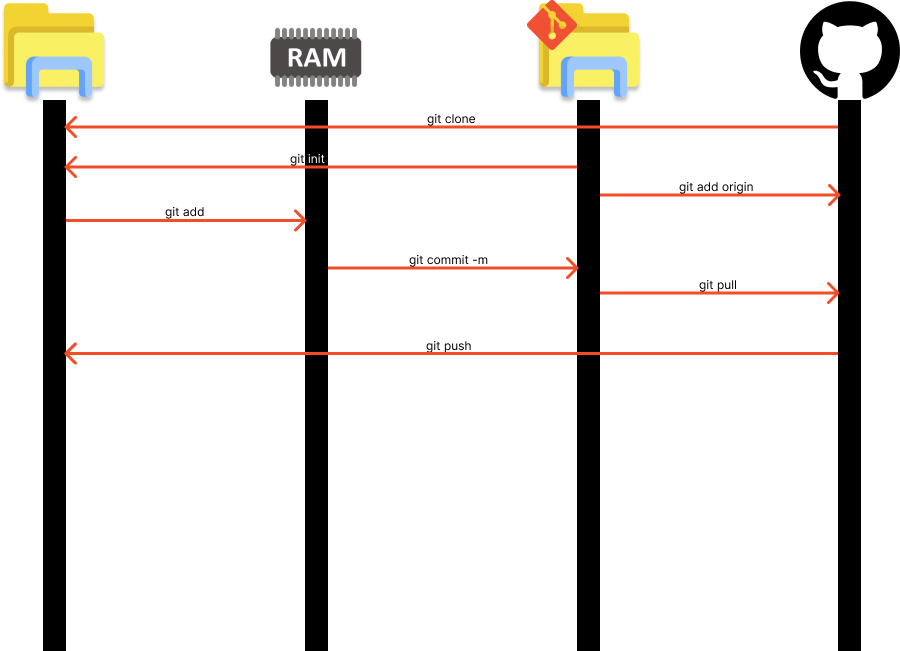
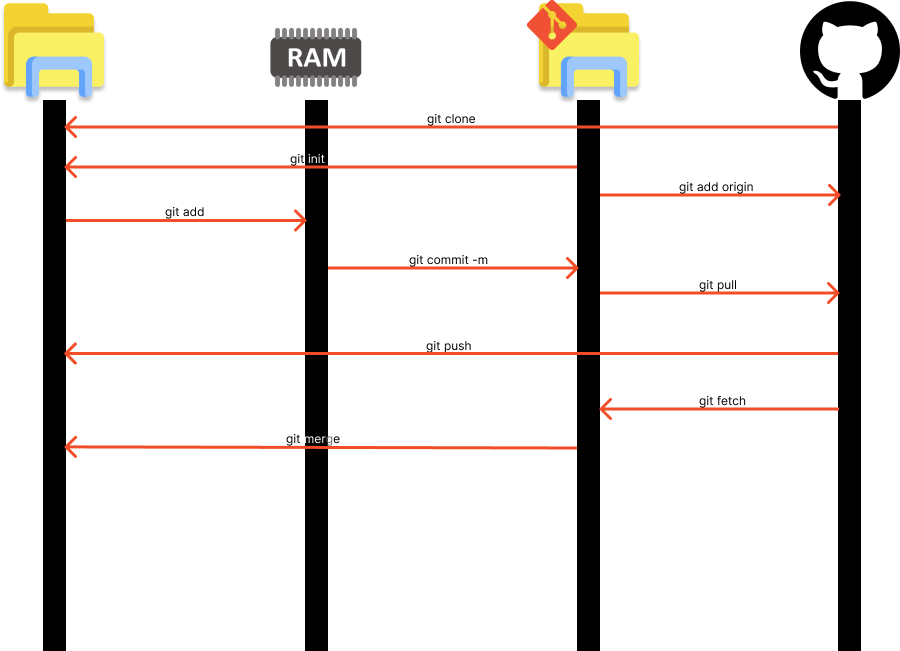
Atualizando apostila

Changed region(s): [[0.0622, 0.6452, 0.6533, 0.7066], [0.6533, 0.6144, 0.9333, 0.6452]]

diff --git a/basico_git.md b/basico_git.md
@@ -72,11 +72,20 @@ git push [NOME DA BRANCH]
 
 ---
 
-## Atualizando o seu *Repositório Local* trazendo as modificações do *Repositório Remoto*
+## Atualizando o seu *Repositório Local* e *Diretório de arquivos* trazendo as modificações do *Repositório Remoto*
 
 ```bash
 git pull
 ```
+
+### Atualizando o seu *Repositório Local*  trazendo as modificações do *Repositório Remoto*
+
+```bash
+git fetch
+```
+
+> Para fazer o restante da atualização é só dar um `git merge` para jogar do *Repositório Local* para o *Diretório de arquivos*
+
 
 ### Atualizando o seu *Repositório Local* trazendo as modificações do *Repositório Remoto* com base em uma Branch
 
